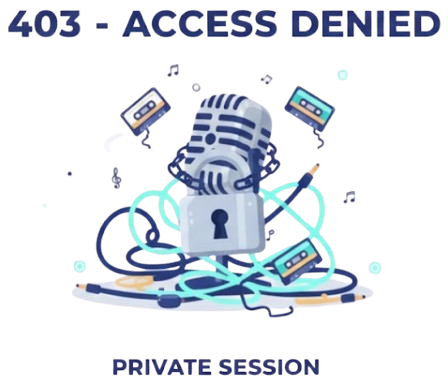
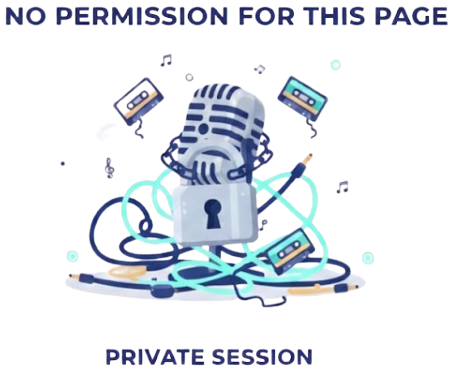
x

diff --git a/frontend/src/views/Denied.vue b/frontend/src/views/Denied.vue
@@ -6,7 +6,7 @@
       <div class="error-container">
         <div class="error-content">
           <div class="icon-wrapper">
-            <img src="/src/assets/images/denied.png" alt="Access Denied" style="max-width: 100%; height: auto; max-height: 300px;">
+            <img src="/src/assets/images/denied.png" alt="Access Denied" style="max-width: 100%; height: auto; max-height: 300px;margin-left: 20px;">
           </div>
           
           <p class="error-text">
